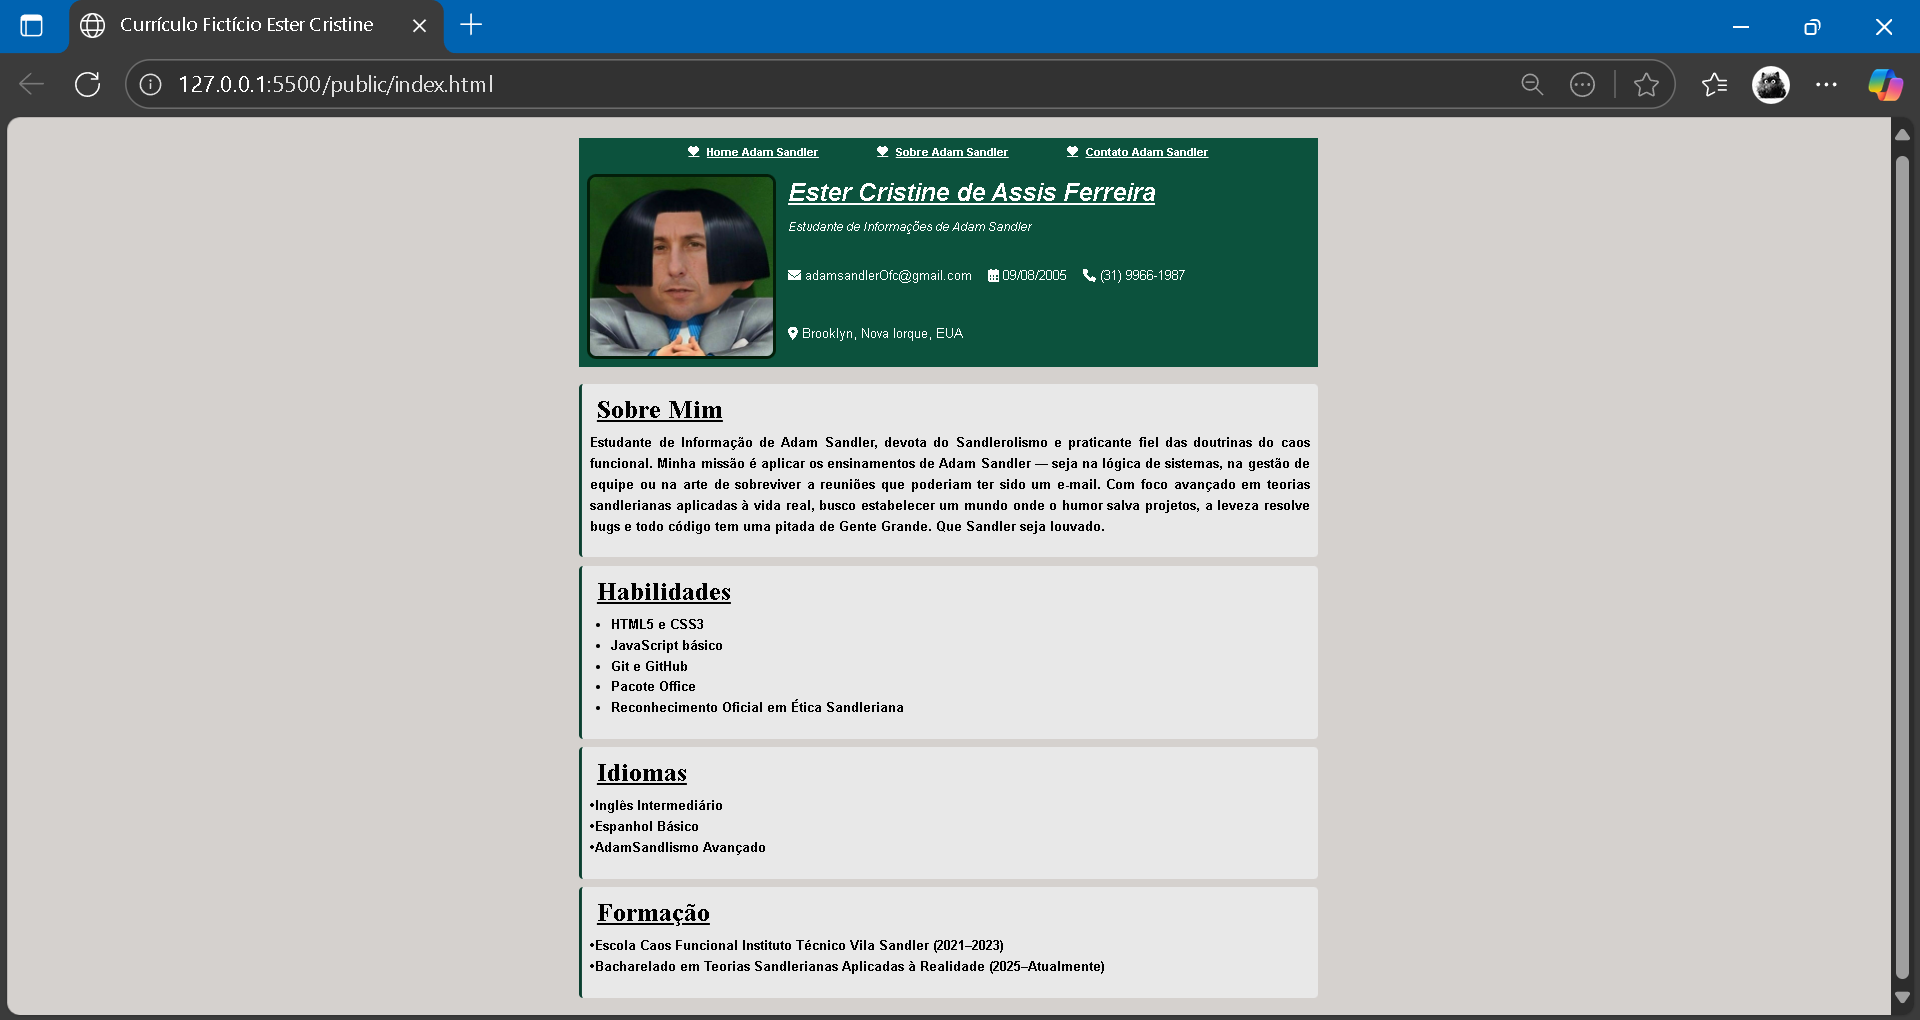
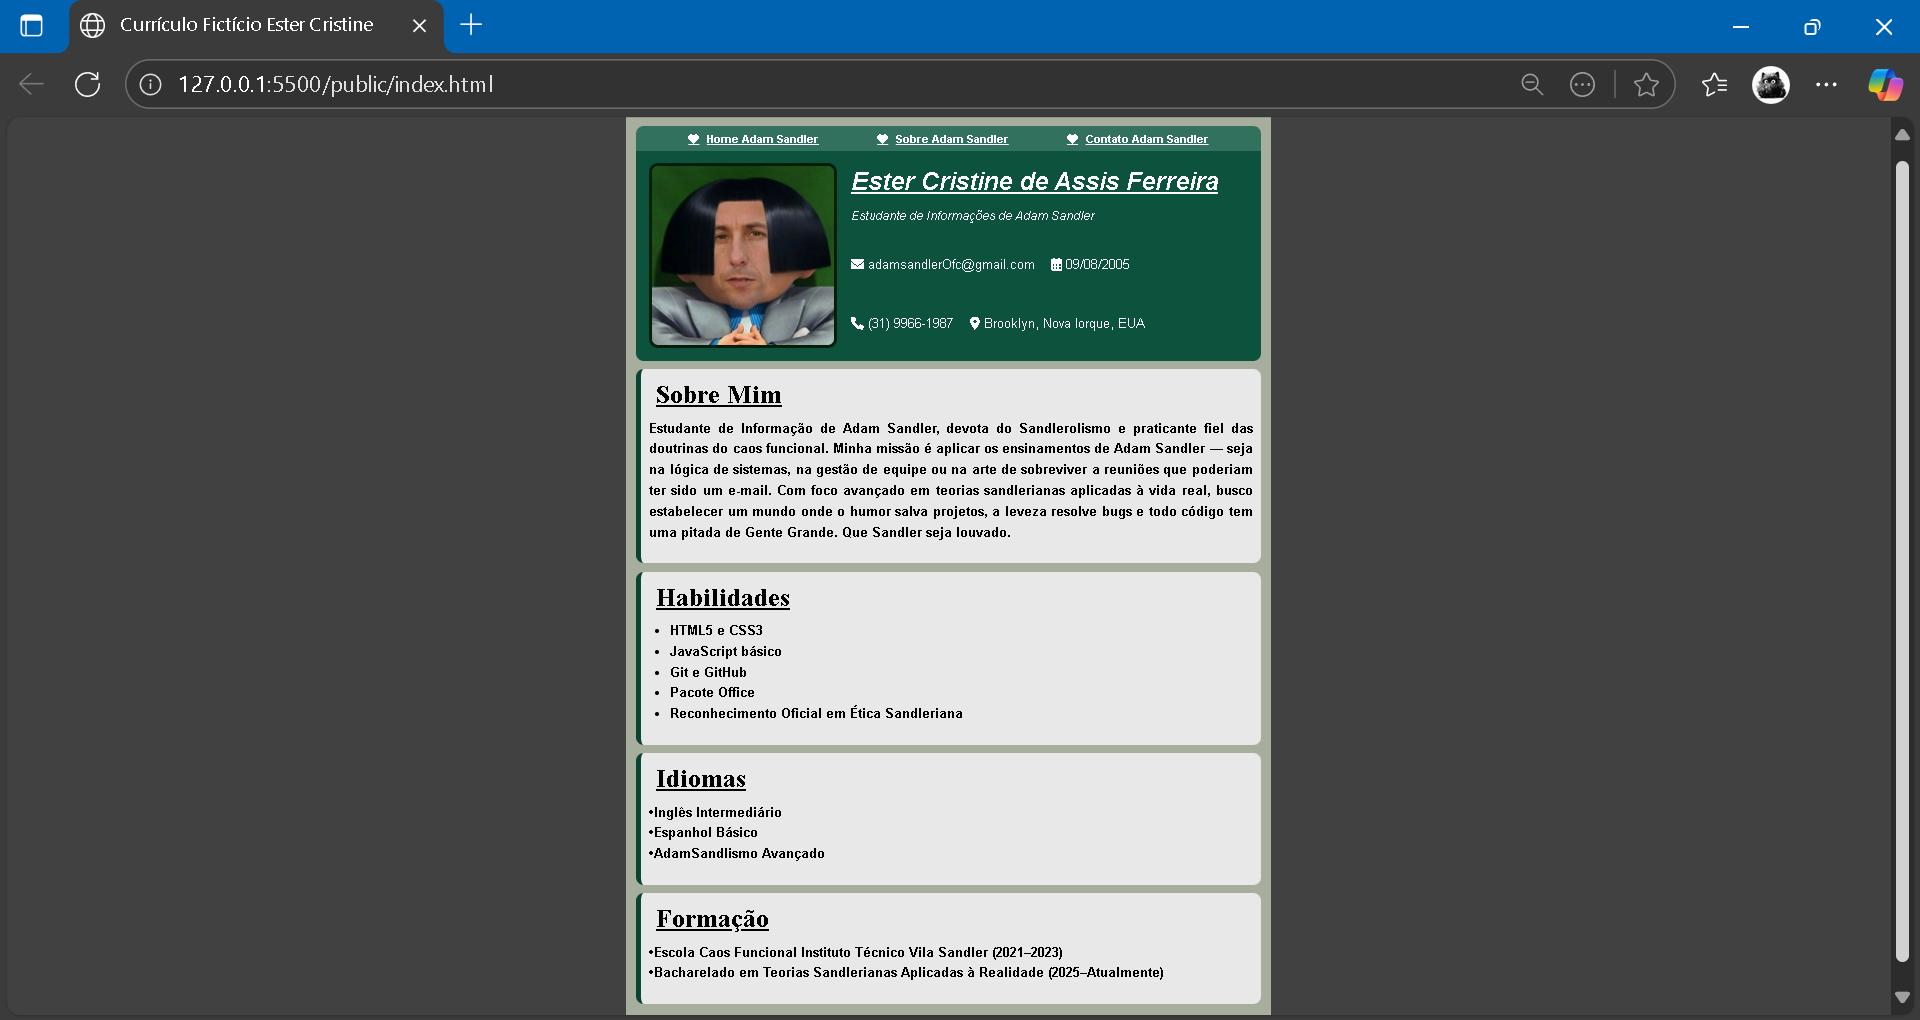
Alterações do site - matrícula:1625330

diff --git a/public/index.html b/public/index.html
@@ -10,68 +10,72 @@
 </head>
 
 <body>
-
-    <nav>
-        <ul class="menu">
-            <li><a href="https://i.pinimg.com/736x/39/b8/2b/39b82bb4683774a7c6dcb4064143358f.jpg" target="_blank"><i
-                        class="fa-solid fa-heart"></i> Home Adam Sandler</a></li>
-            <li><a href="https://pt.wikipedia.org/wiki/Adam_Sandler" target="_blank"><i class="fa-solid fa-heart"></i>
-                    Sobre Adam Sandler</a></li>
-            <li><a href="https://www.instagram.com/adamsandler" target="_blank"><i class="fa-solid fa-heart"></i>
-                    Contato Adam Sandler</a></li>
-        </ul>
-    </nav>
-
-
-    <header class="Cabeçalho">
-        <img src="avatar.jpeg" alt="Foto de Perfil">
-        <div>
-            <h1 id="name">Ester Cristine de Assis Ferreira</h1>
-            <p id="SI">Estudante de Informações de Adam Sandler</p>
-            <div class="contato">
-                <p><i class="fa-solid fa-envelope"></i> adamsandlerOfc@gmail.com</p>
-                <p><i class="fa-solid fa-calendar-days"></i> 09/08/2005</p>
-                <p><i class="fa-solid fa-phone"></i> (31) 9966-1987</p>
-                <p><i class="fa-solid fa-location-dot"></i> Brooklyn, Nova Iorque, EUA</p>
-            </div>
-        </div>
-        </div>
-    </header>
-
-    <main>
-        <section class="SobreMim">
-            <h2>Sobre Mim</h2>
-            <p>Estudante de Informação de Adam Sandler, devota do Sandlerolismo e praticante fiel das doutrinas do caos
-                funcional. Minha missão é aplicar os ensinamentos de Adam Sandler — seja na lógica de sistemas, na
-                gestão de equipe ou na arte de sobreviver a reuniões que poderiam ter sido um e-mail. Com foco avançado
-                em teorias sandlerianas aplicadas à vida real, busco estabelecer um mundo onde o humor salva projetos, a
-                leveza resolve bugs e todo código tem uma pitada de Gente Grande. Que Sandler seja louvado.</p>
-        </section>
-
-        <section class="Habilidades">
-            <h2>Habilidades</h2>
-            <ul>
-                <li>HTML5 e CSS3</li>
-                <li>JavaScript básico</li>
-                <li>Git e GitHub</li>
-                <li>Pacote Office</li>
-                <li>Reconhecimento Oficial em Ética Sandleriana</li>
+    <div class="folha">
+        <nav>
+            <ul class="menu">
+                <li><a href="https://i.pinimg.com/736x/39/b8/2b/39b82bb4683774a7c6dcb4064143358f.jpg" target="_blank"><i
+                            class="fa-solid fa-heart"></i> Home Adam Sandler</a></li>
+                <li><a href="https://pt.wikipedia.org/wiki/Adam_Sandler" target="_blank"><i
+                            class="fa-solid fa-heart"></i>
+                        Sobre Adam Sandler</a></li>
+                <li><a href="https://www.instagram.com/adamsandler" target="_blank"><i class="fa-solid fa-heart"></i>
+                        Contato Adam Sandler</a></li>
             </ul>
-        </section>
+        </nav>
 
-        <section class="Idiomas">
-            <h2>Idiomas</h2>
-            <p>&bull;Inglês Intermediário <br>
-                &bull;Espanhol Básico <br>
-                &bull;AdamSandlismo Avançado</p>
-        </section>
 
-        <section class="Educação">
-            <h2>Formação</h2>
-            <p>&bull;Escola Caos Funcional Instituto Técnico Vila Sandler (2021–2023)<br>
-                &bull;Bacharelado em Teorias Sandlerianas Aplicadas à Realidade (2025–Atualmente)</p>
-        </section>
-    </main>
+        <header class="Cabeçalho">
+            <img src="avatar.jpeg" alt="Foto de Perfil">
+            <div>
+                <h1 id="name">Ester Cristine de Assis Ferreira</h1>
+                <p id="SI">Estudante de Informações de Adam Sandler</p>
+                <div class="contato">
+                    <p><i class="fa-solid fa-envelope"></i> adamsandlerOfc@gmail.com</p>
+                    <p><i class="fa-solid fa-calendar-days"></i> 09/08/2005</p>
+                    <p><i class="fa-solid fa-phone"></i> (31) 9966-1987</p>
+                    <p><i class="fa-solid fa-location-dot"></i> Brooklyn, Nova Iorque, EUA</p>
+                </div>
+            </div>
+
+        </header>
+
+        <main>
+            <section class="SobreMim">
+                <h2>Sobre Mim</h2>
+                <p>Estudante de Informação de Adam Sandler, devota do Sandlerolismo e praticante fiel das doutrinas do
+                    caos
+                    funcional. Minha missão é aplicar os ensinamentos de Adam Sandler — seja na lógica de sistemas, na
+                    gestão de equipe ou na arte de sobreviver a reuniões que poderiam ter sido um e-mail. Com foco
+                    avançado
+                    em teorias sandlerianas aplicadas à vida real, busco estabelecer um mundo onde o humor salva
+                    projetos, a
+                    leveza resolve bugs e todo código tem uma pitada de Gente Grande. Que Sandler seja louvado.</p>
+            </section>
+
+            <section class="Habilidades">
+                <h2>Habilidades</h2>
+                <ul>
+                    <li>HTML5 e CSS3</li>
+                    <li>JavaScript básico</li>
+                    <li>Git e GitHub</li>
+                    <li>Pacote Office</li>
+                    <li>Reconhecimento Oficial em Ética Sandleriana</li>
+                </ul>
+            </section>
+
+            <section class="Idiomas">
+                <h2>Idiomas</h2>
+                <p>&bull;Inglês Intermediário <br>
+                    &bull;Espanhol Básico <br>
+                    &bull;AdamSandlismo Avançado</p>
+            </section>
+
+            <section class="Educação">
+                <h2>Formação</h2>
+                <p>&bull;Escola Caos Funcional Instituto Técnico Vila Sandler (2021–2023)<br>
+                    &bull;Bacharelado em Teorias Sandlerianas Aplicadas à Realidade (2025–Atualmente)</p>
+            </section>
+        </main>
 
 </body>
 

diff --git a/public/style.css b/public/style.css
@@ -1,16 +1,26 @@
 body {
-  background-color: #d5d1ce;
+  background-color: #424141;
   font-family: sans-serif;
   margin: 0;
   padding: 0;
 }
 
+.folha{
+ background: rgb(168, 174, 158);               
+  max-width: 1200px;                
+  margin: 20px auto;              
+  padding: 20px;                   
+  min-height: 10vh;
+}
+
 nav {
-  background-color: #0c523d;
-  padding: 0.8rem 1.5rem;
-  margin-left: 1100px;
-  margin-right: 1100px;
-  margin-top: 50px;
+  background-color: #32715e;
+  padding: 0.8rem 1.5rem 0.5rem 1.5rem;
+  max-width: 1200px;
+  margin: 0rem auto 0 auto;
+  border-top-left-radius: 15px;
+  border-top-right-radius: 15px;
+  
 }
 
 .menu {
@@ -34,14 +44,16 @@ nav {
 }
 
 .Cabeçalho {
-  background-color: #0c523d;
+  background-color: #0c523d; 
   color: white;
-  padding: 1rem;
+  padding: 1.5rem;
   display: flex;
   align-items: center;
-  gap: 1.5rem;
-  margin-left: 1100px;
-  margin-right: 1100px;
+  gap: 1.7rem;
+  max-width: 1200px;
+  margin: 0 auto; 
+  border-bottom-left-radius: 15px;
+  border-bottom-right-radius: 15px;
 }
 
 .Cabeçalho img {
@@ -71,18 +83,18 @@ nav {
 }
 
 main {
-  padding: 1rem 2rem;
+  padding: 0 auto;
   font-size: 1.4rem;
-  margin-left: 1068px;
-  margin-right: 1068px;
+  max-width: 1244px;
+  margin: 0 auto; 
 }
 
 section {
   margin: 1rem 0;
   padding: 1rem;
-  border-left: 6px solid #0b4030;
+  border-left: 10px solid #094432;
   background-color: #e8e8e8;
-  border-radius: 8px;
+  border-radius: 15px;
   font-weight: bold;
   line-height: 40px;
   font-size: 1.5rem;
